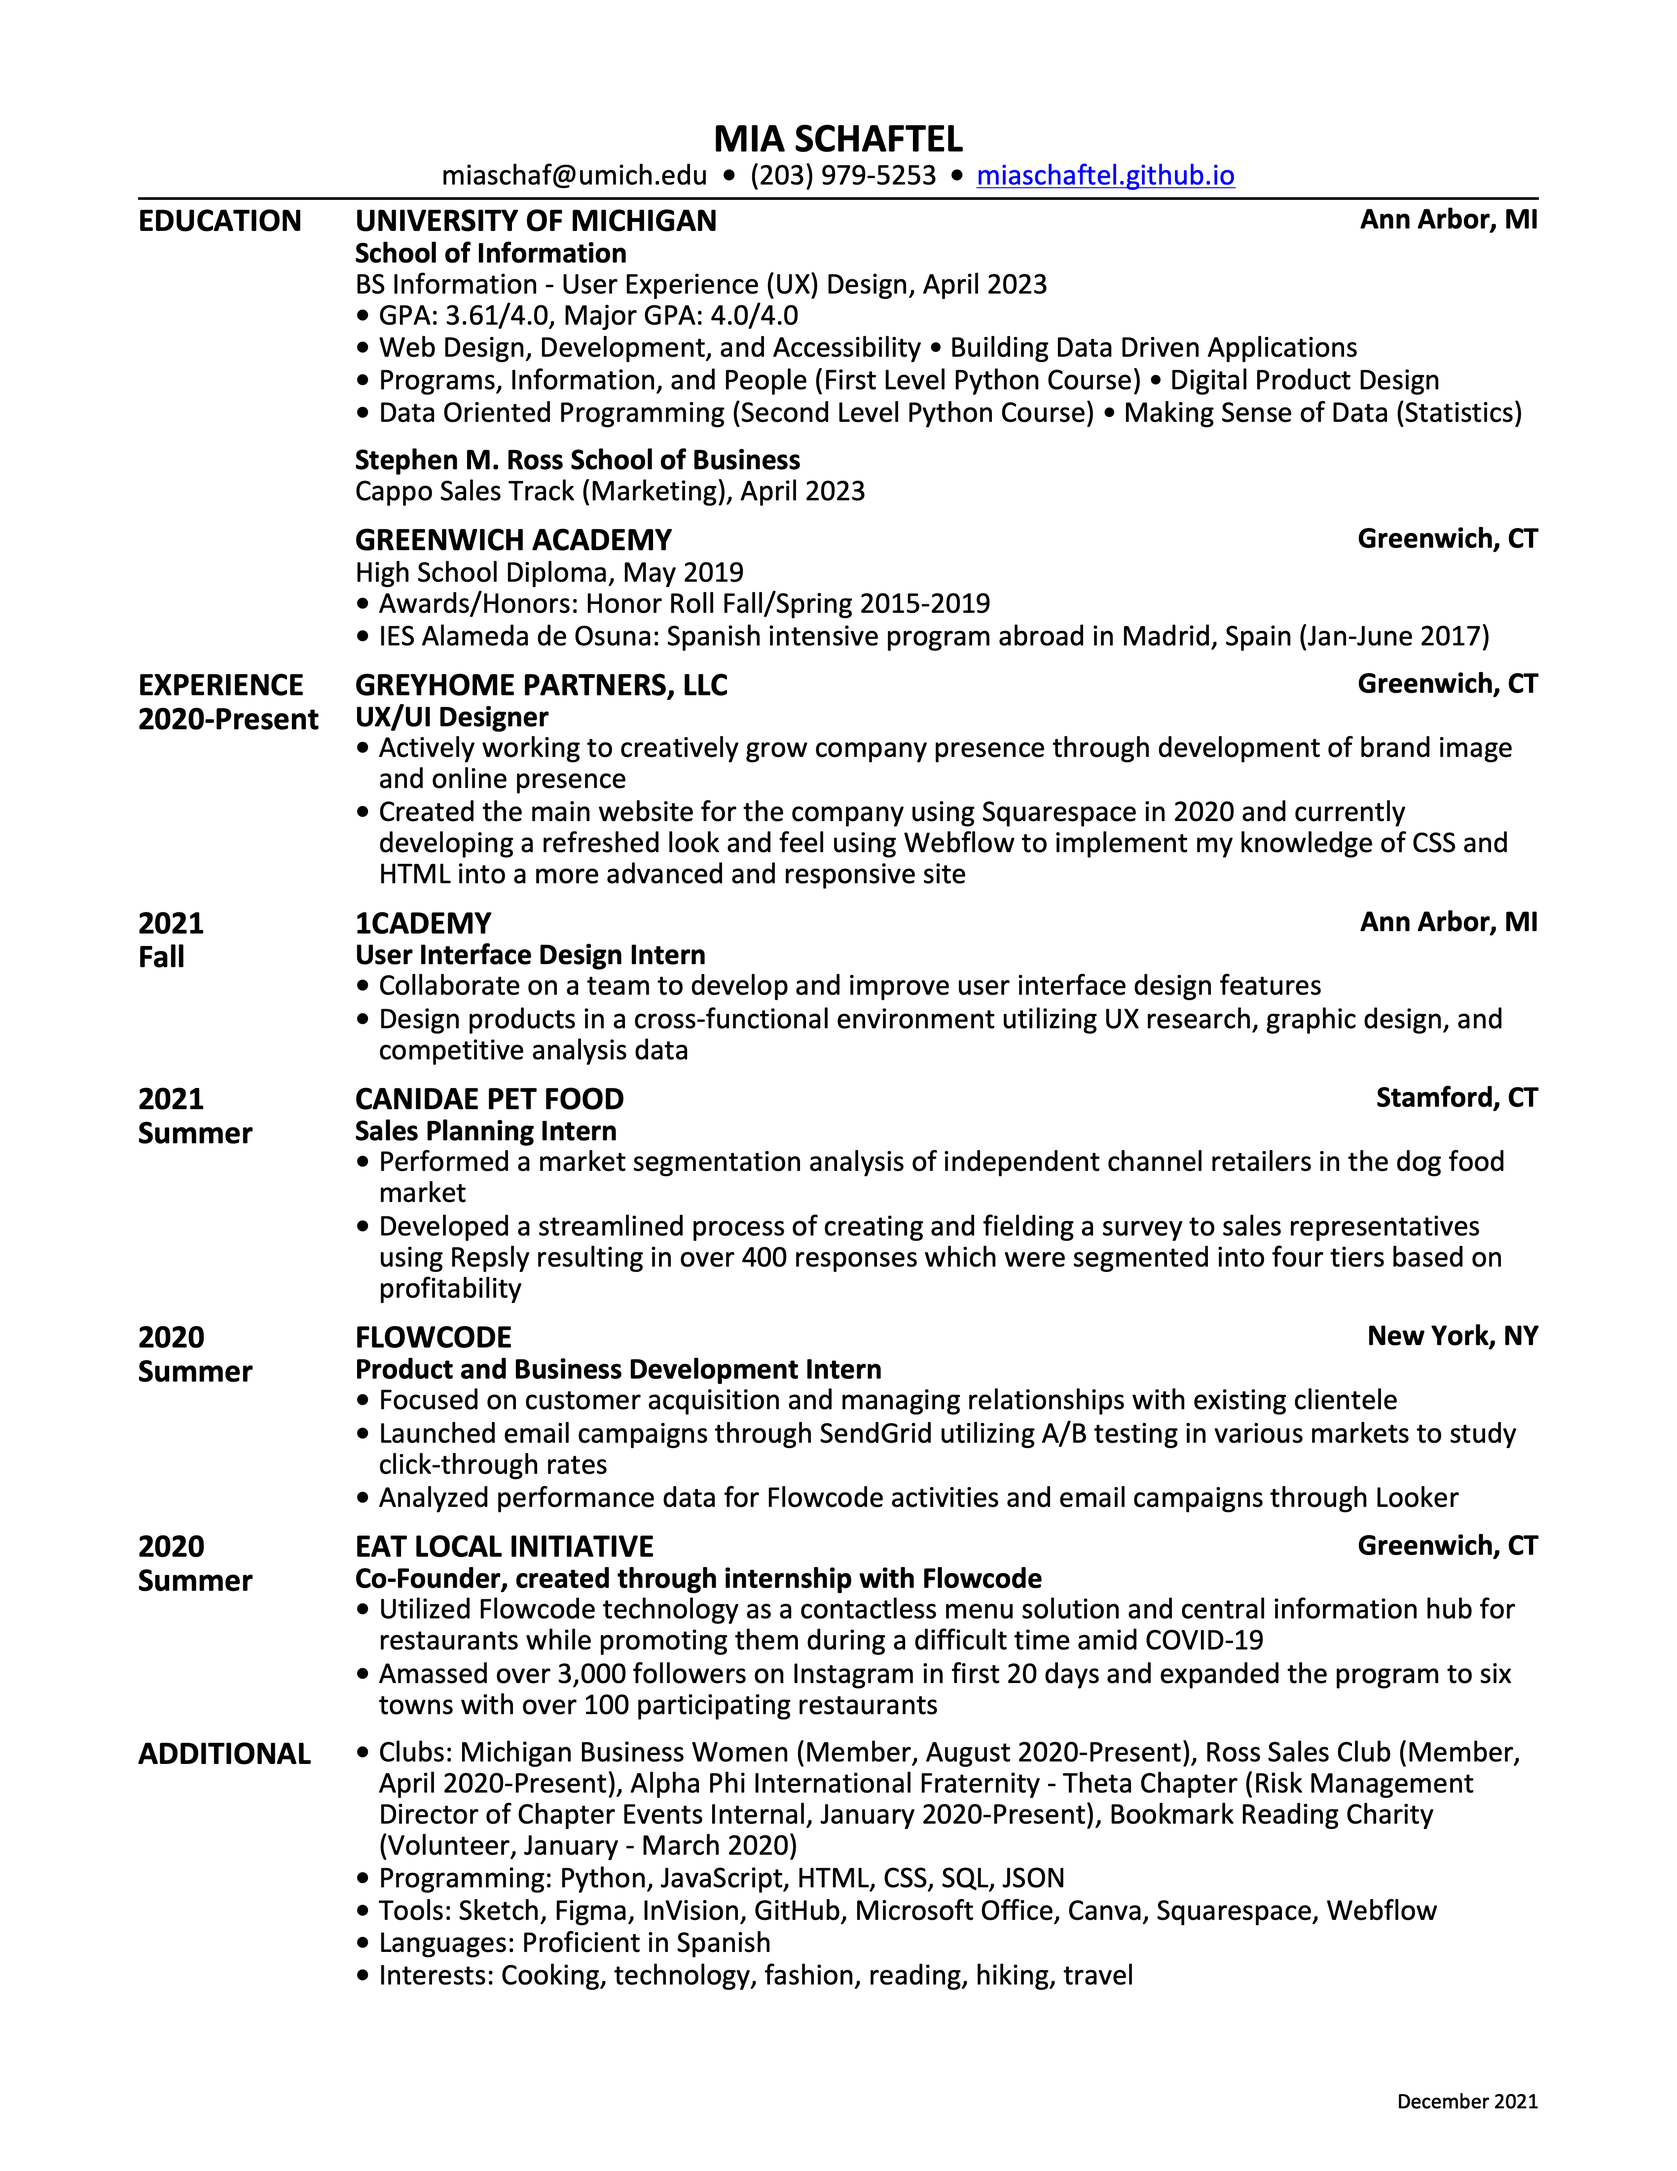
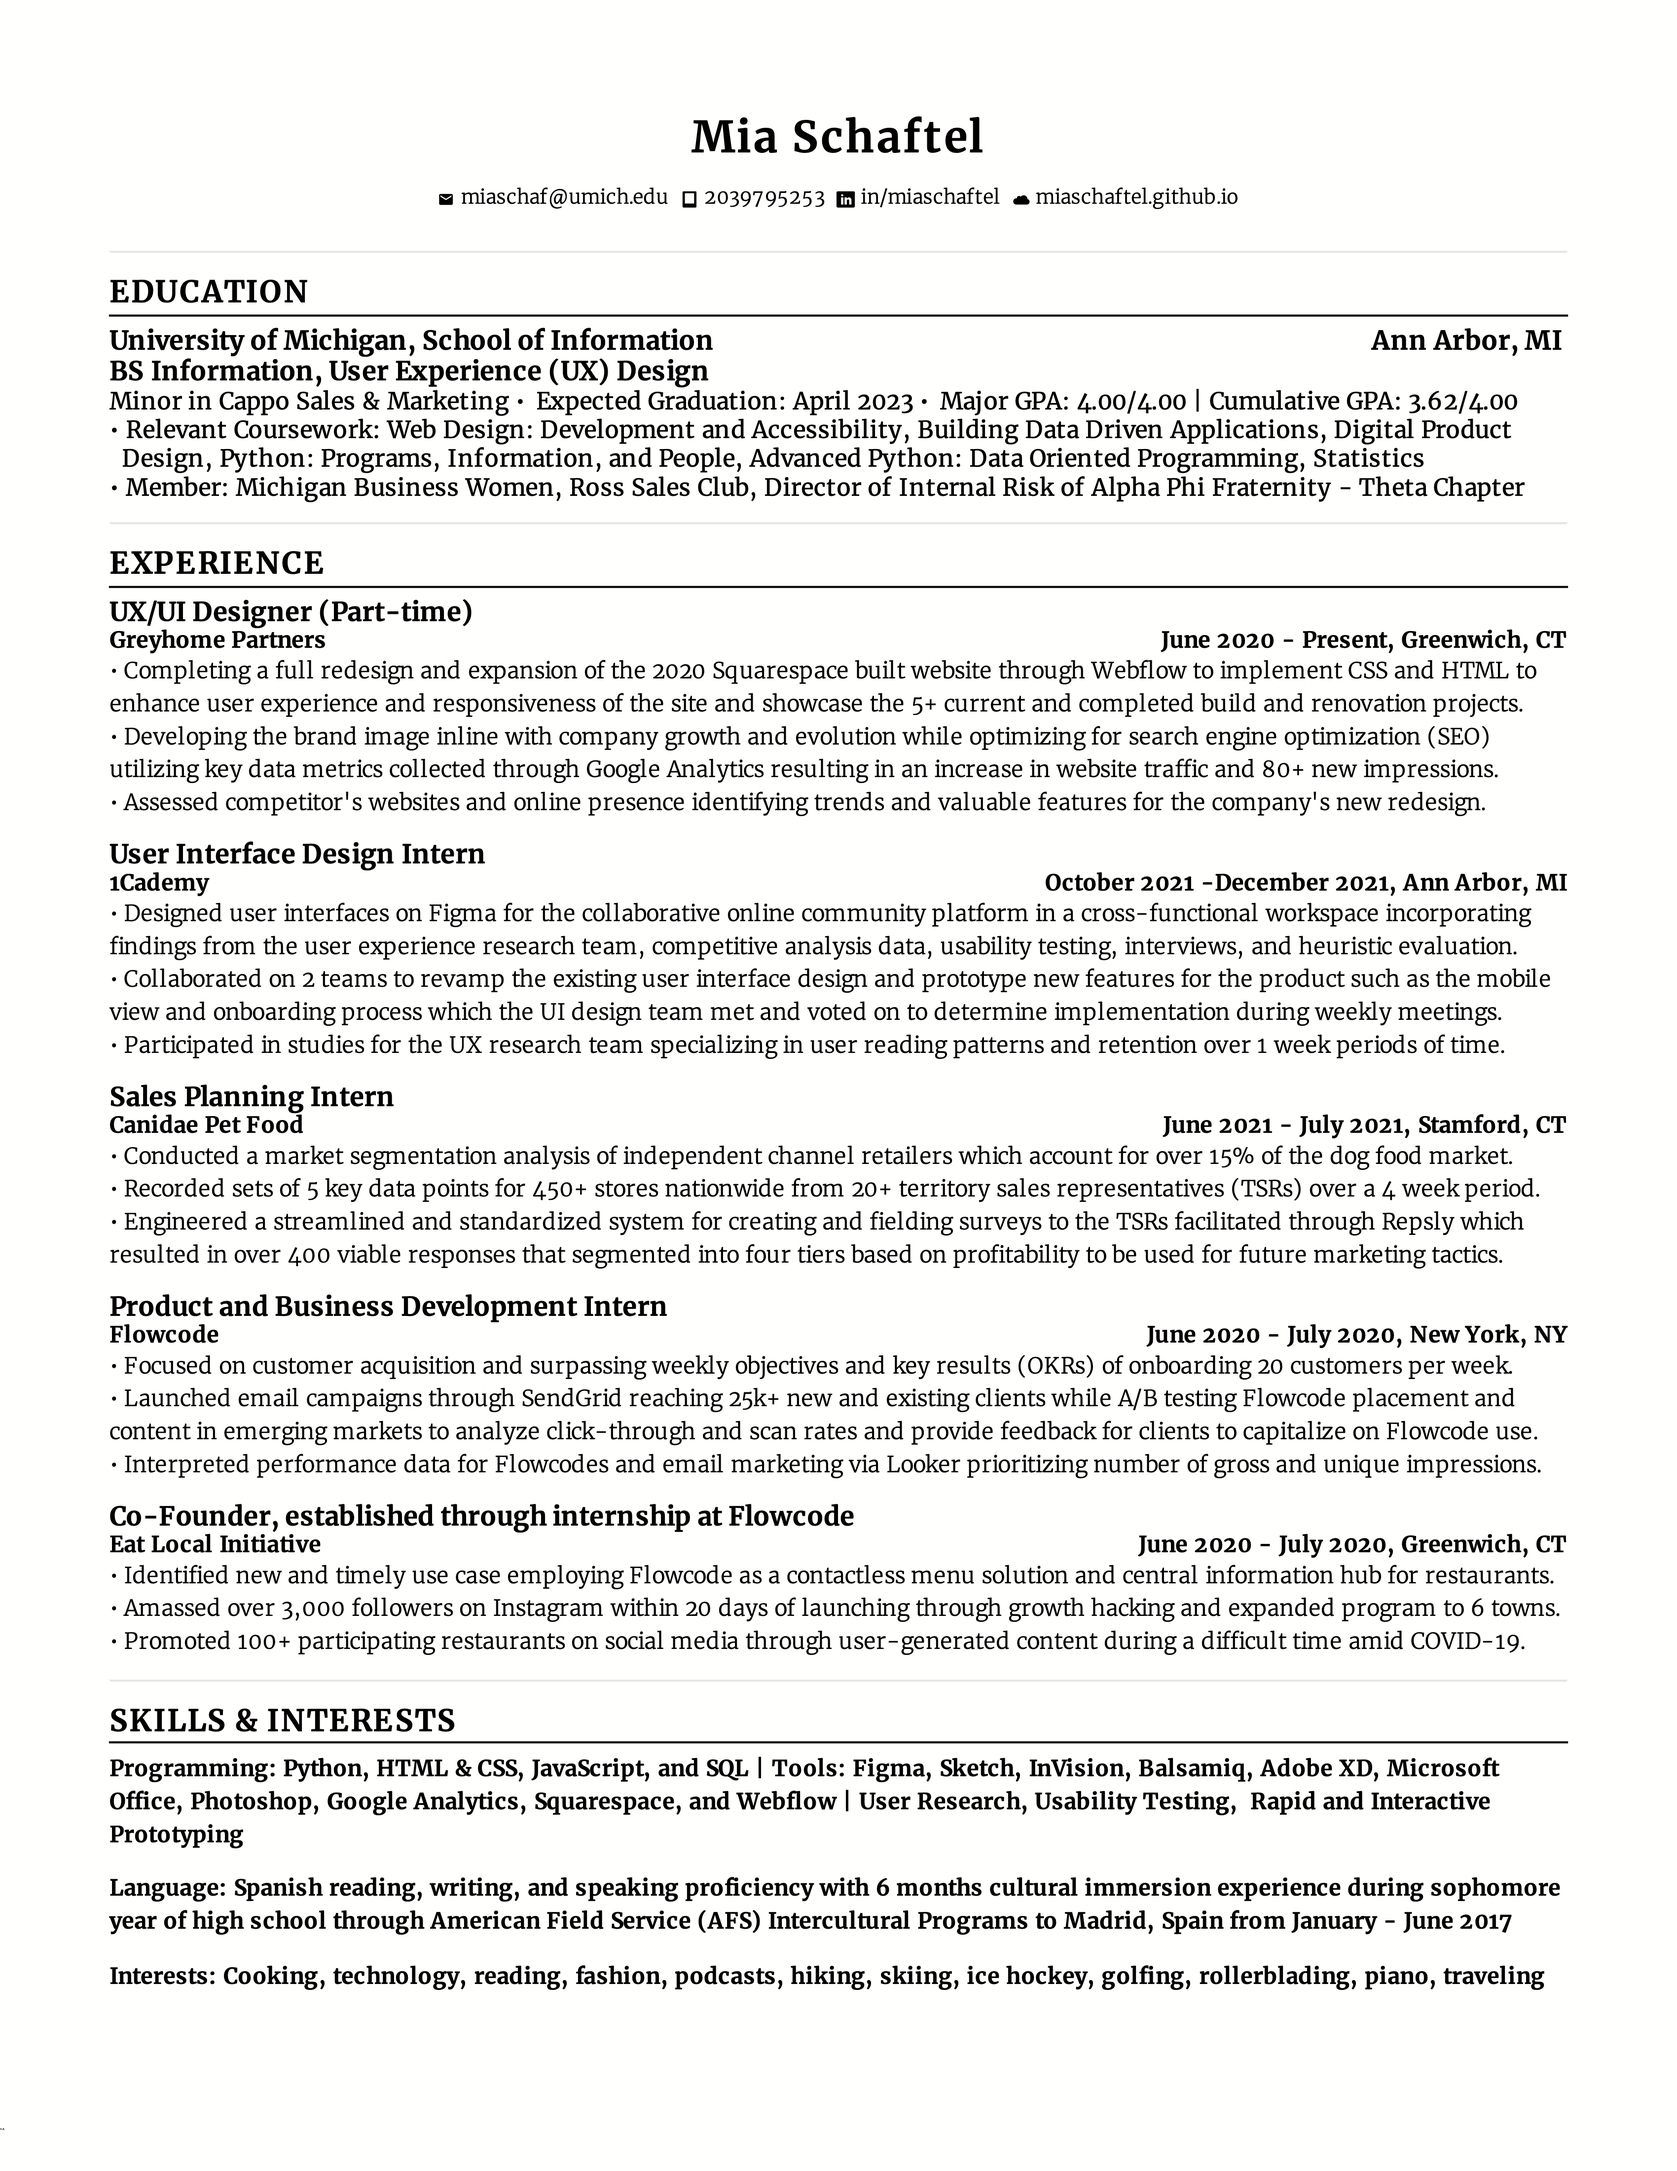
Add files via upload

Changed region(s): [[0.0624, 0.0311, 0.9353, 0.9341], [0.8106, 0.0934, 0.9041, 0.1245]]

diff --git a/resume.html b/resume.html
@@ -70,7 +70,7 @@
                 <h1>RESUME</h1>
                 <p>Please find my resumé below. Click to view the PDF version.</p>
             </header>
-            <a href="https://drive.google.com/file/d/1gdlJ7tVZ4ZRZs8-AEyQ_JQlcARuZOvku/view?usp=sharing"><img src="../imgs/resume.png" width="350px" alt="Mia Schaftel Resume"></a>
+            <a href="https://drive.google.com/file/d/18lo8-O83iqYv1EzQ9h02DiULJJ8im7Lx/view?usp=sharing"><img src="../imgs/resume.png" width="350px" alt="Mia Schaftel Resume"></a>
   </main>
     <footer>
         <div class="footer">

diff --git a/css/style.css b/css/style.css
@@ -1095,7 +1095,7 @@ footer {
     }
 
     .c-skills {
-        margin-top: -360px;
+        margin-top: -1360px;
     }
 
     /* GHP PAGE CSS */
